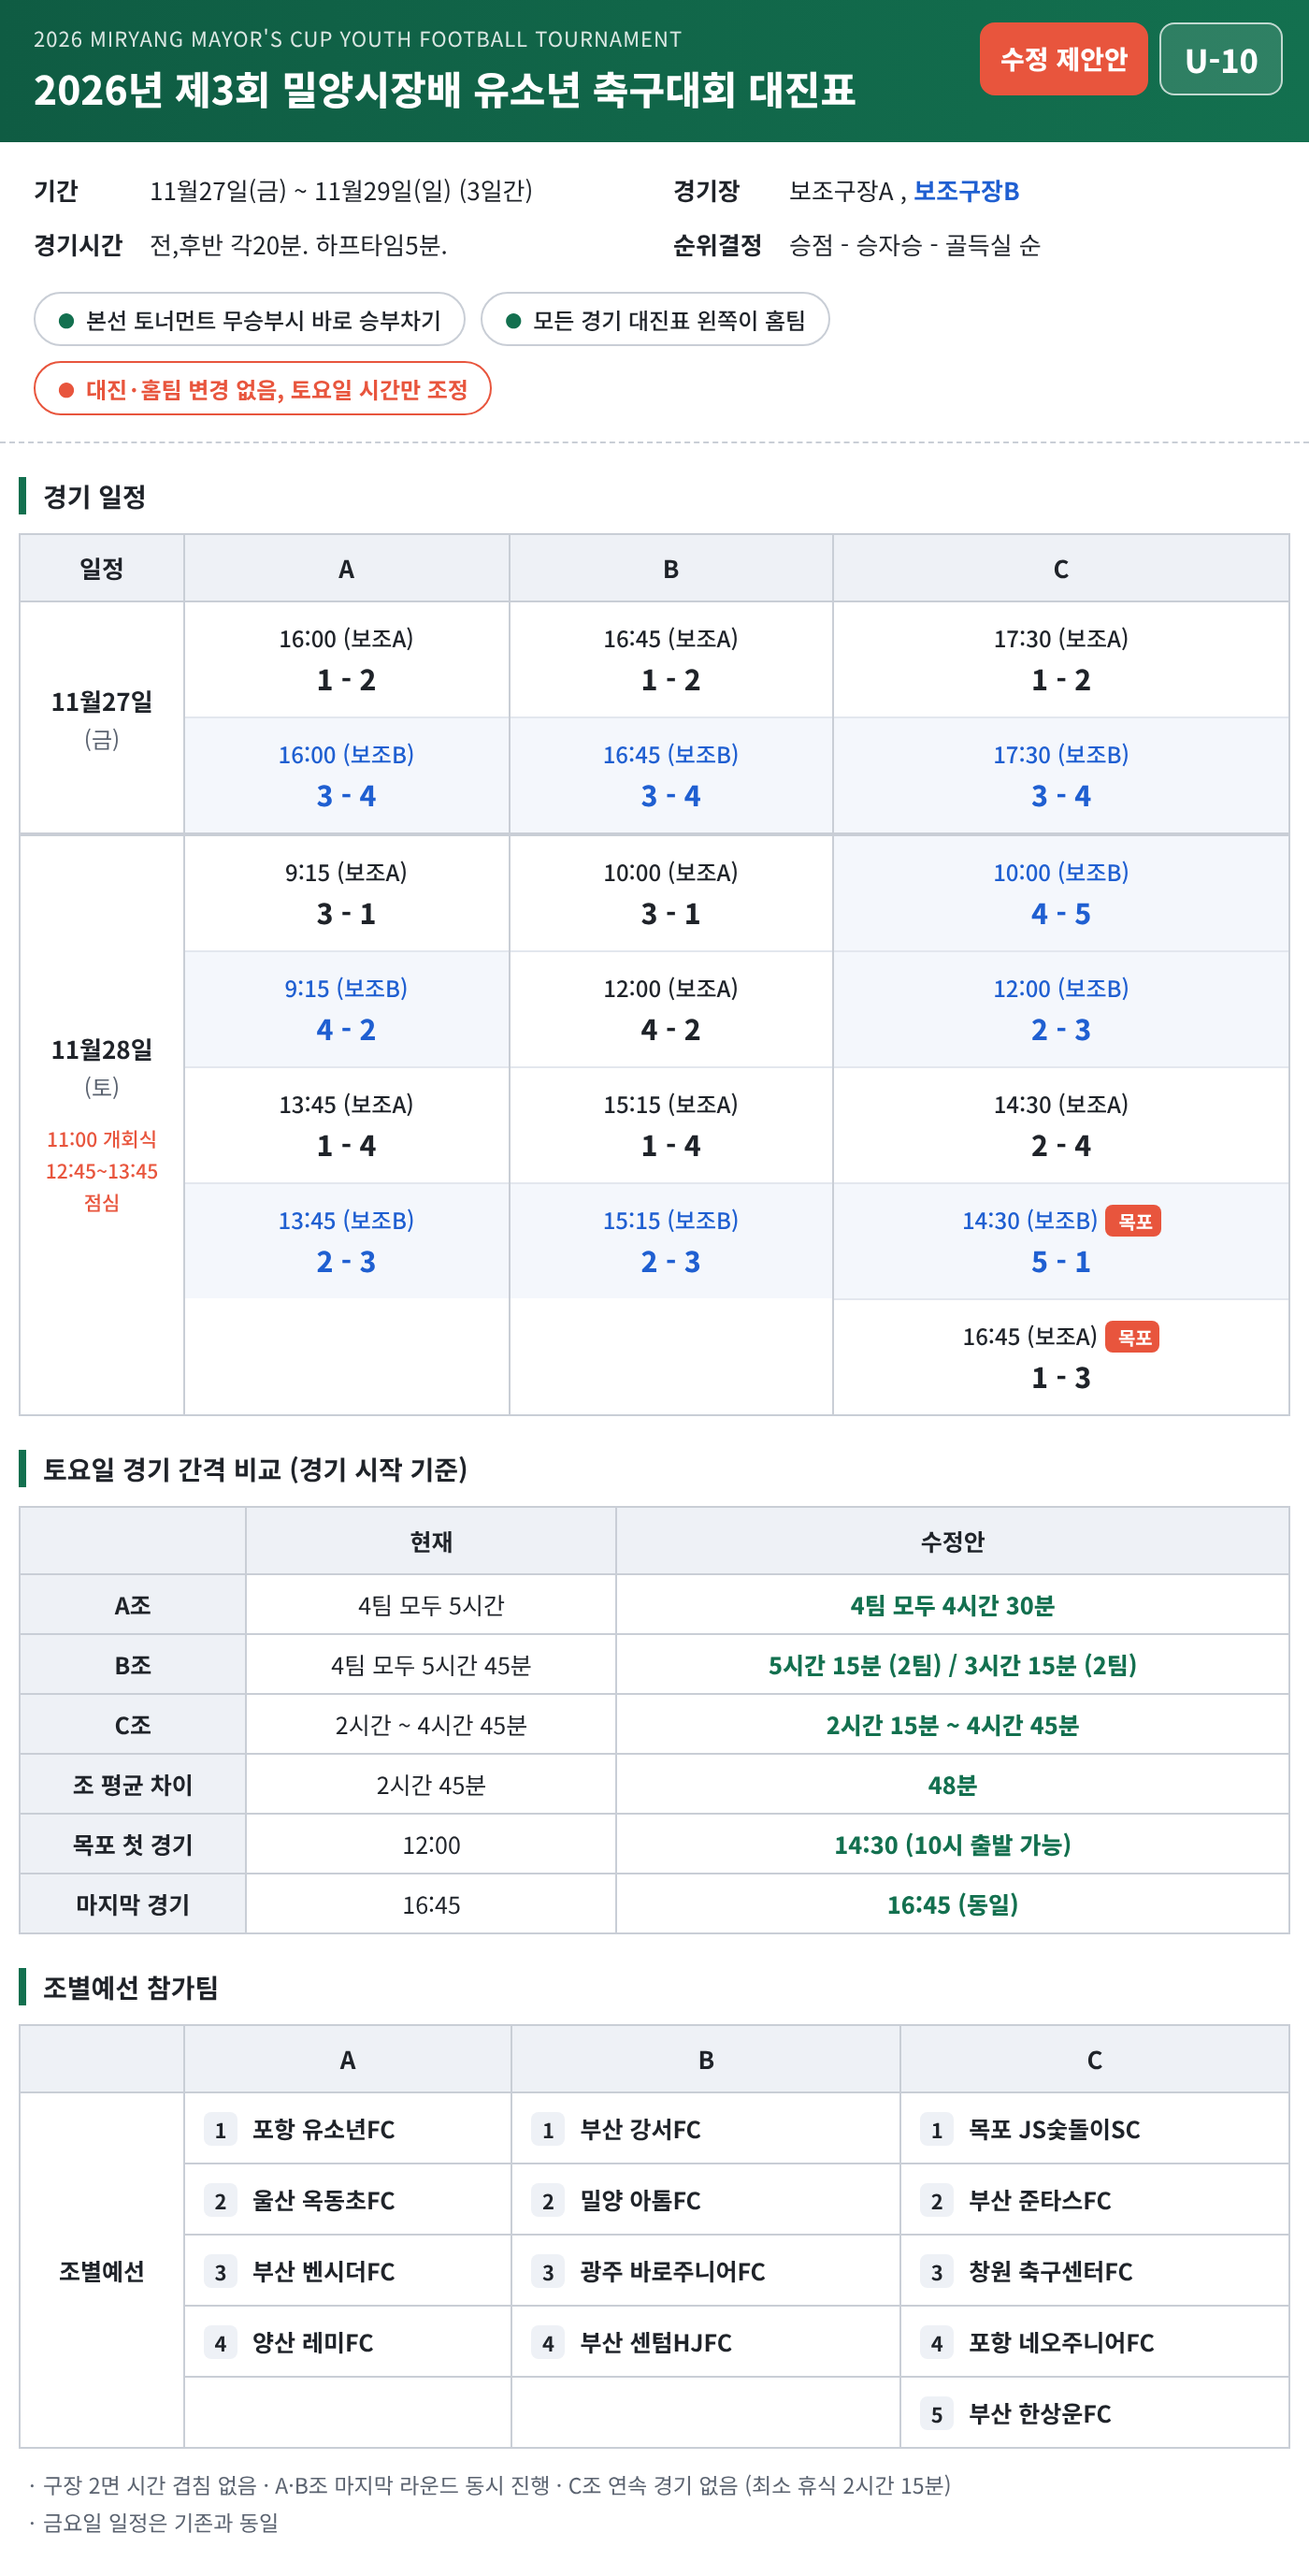
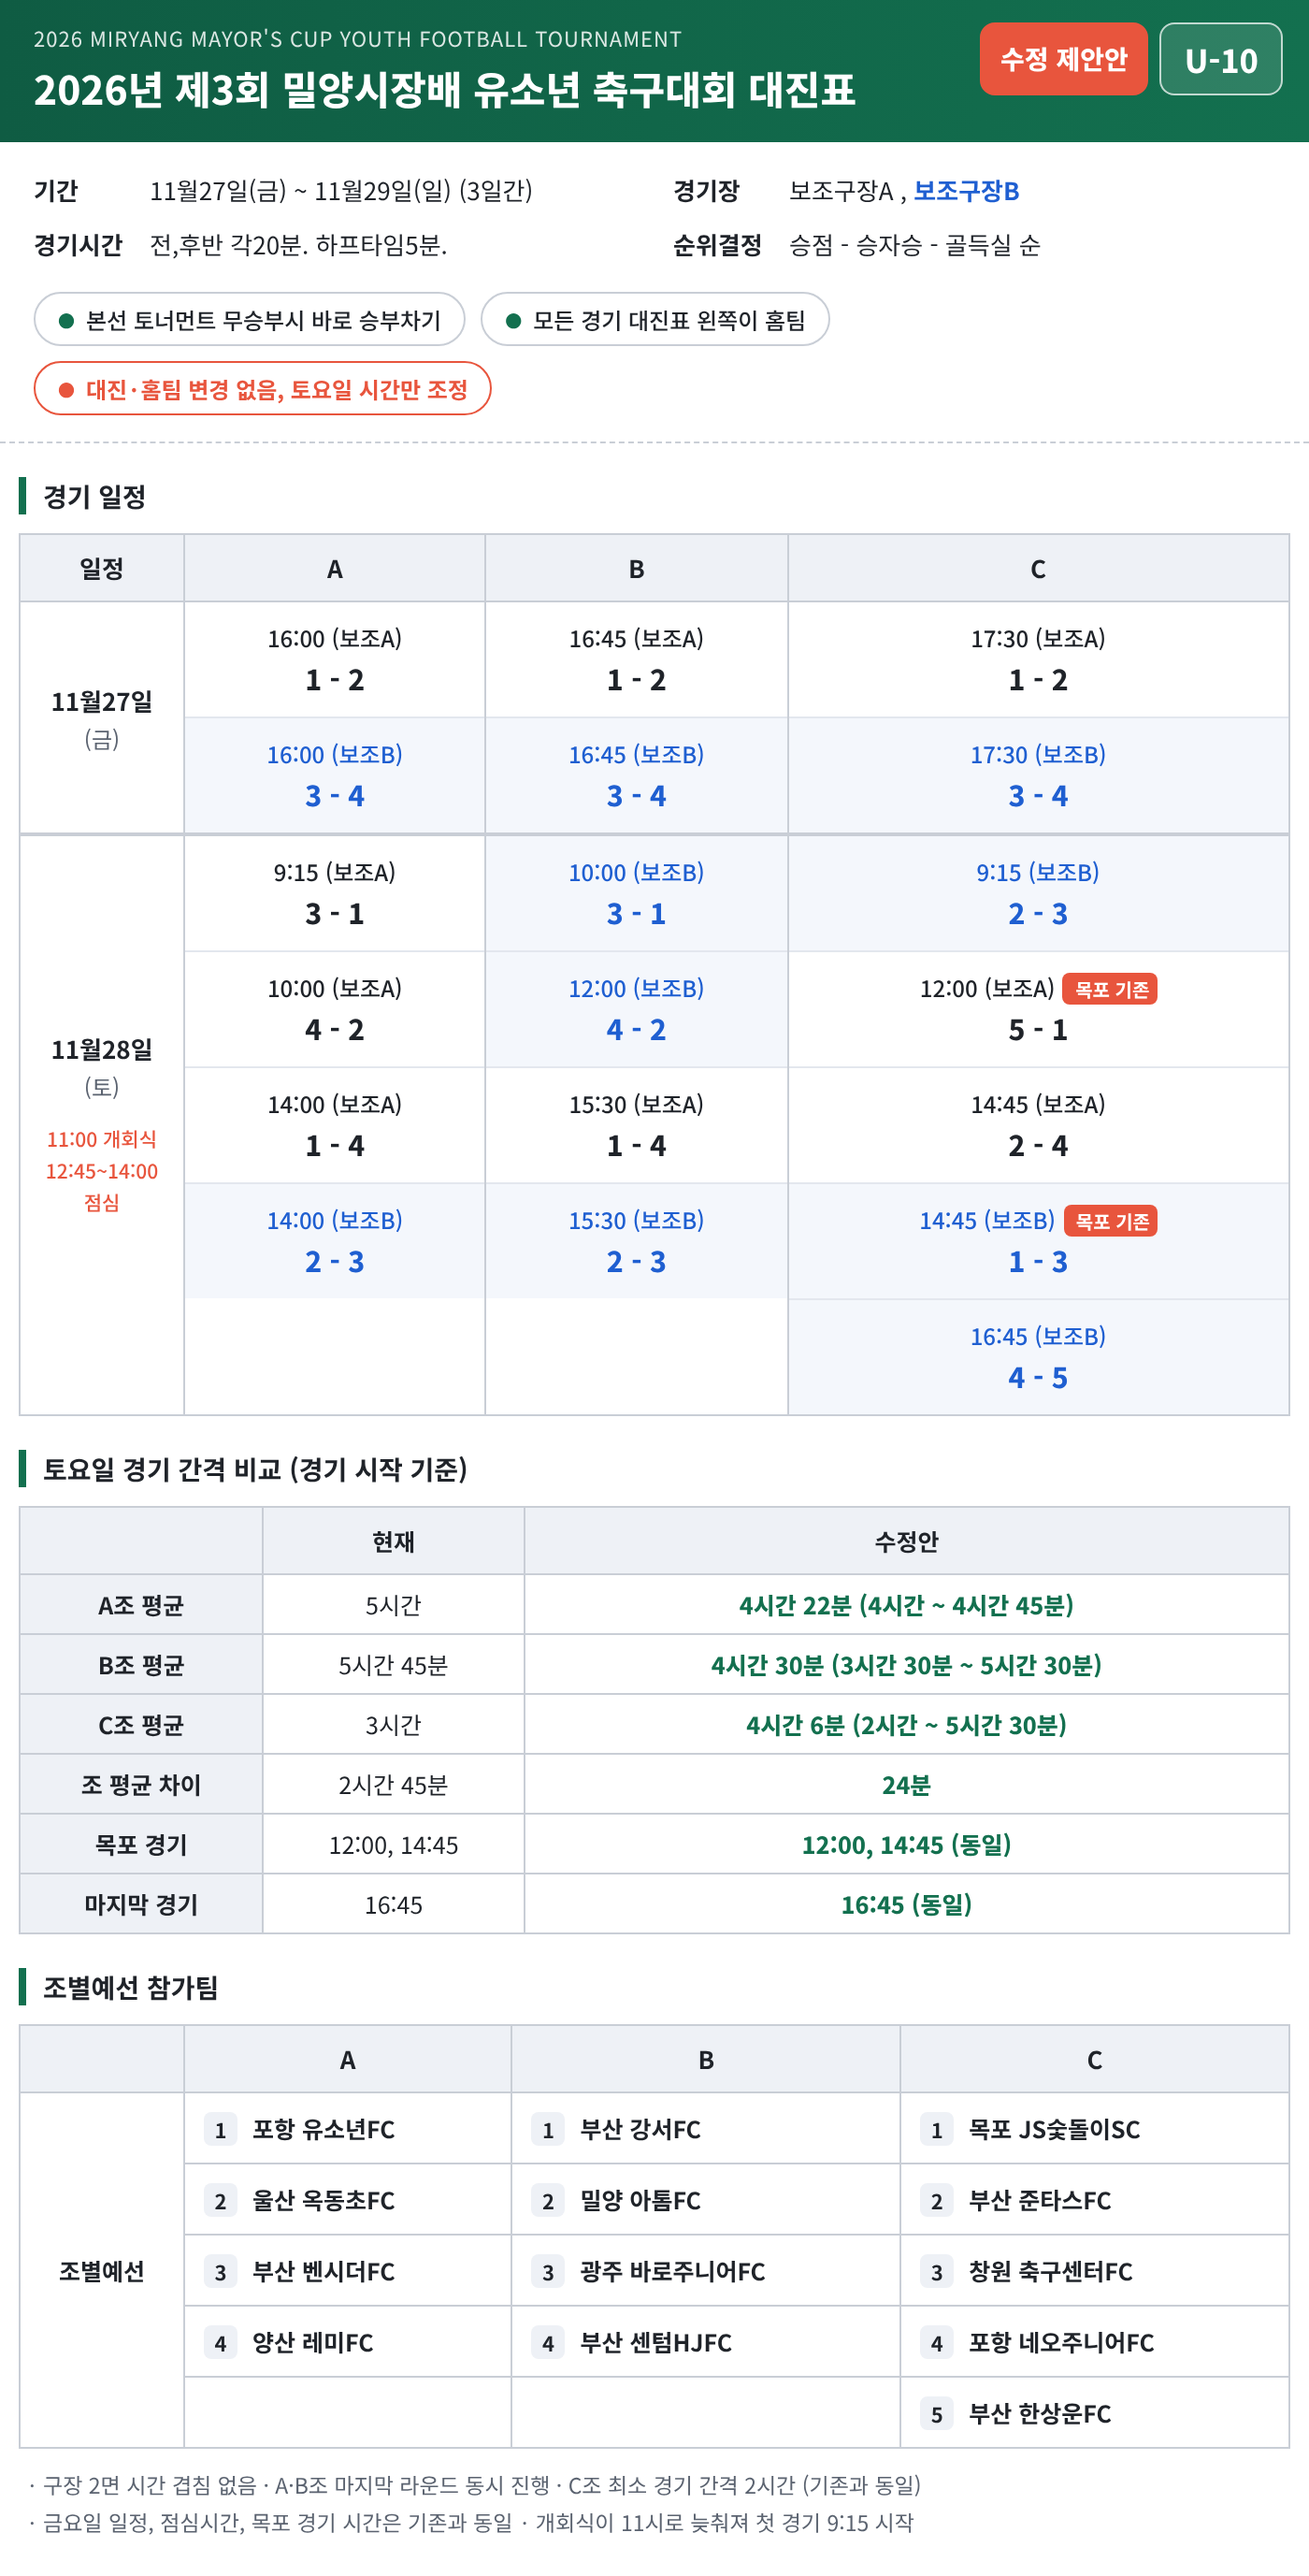
Keep Mokpo's original match times in proposed schedule
Claude-Session: https://claude.ai/code/session_01PvWX4VaDScZmFjzGSQV6oC

diff --git a/schedule/schedule.html b/schedule/schedule.html
@@ -39,7 +39,7 @@
   .g .tm{font-size:12px;font-weight:500}
   .g .sc{font-size:15px;font-weight:800;margin-top:3px}
   .g.b{background:var(--soft);color:var(--blue)}
-  .g.mk .tm:after{content:" 목포";font-size:10px;font-weight:700;color:#fff;background:var(--accent);border-radius:4px;padding:1px 4px;margin-left:4px}
+  .g.mk .tm:after{content:" 목포 기존";font-size:10px;font-weight:700;color:#fff;background:var(--accent);border-radius:4px;padding:1px 4px;margin-left:4px}
   .sep{border-top:2px solid var(--line)}
   .teams td{height:38px;padding:0 10px;font-weight:700;font-size:12.5px}
   .teams td.lbl{text-align:center;width:88px}
@@ -93,25 +93,25 @@
       </tr>
       <tr class="sep">
         <td class="date">11월28일<small>(토)</small>
-          <span class="ev">11:00 개회식<br>12:45~13:45<br>점심</span></td>
+          <span class="ev">11:00 개회식<br>12:45~14:00<br>점심</span></td>
         <td class="col"><div class="stack">
           <div class="g"><div class="tm">9:15 (보조A)</div><div class="sc">3 - 1</div></div>
-          <div class="g b"><div class="tm">9:15 (보조B)</div><div class="sc">4 - 2</div></div>
-          <div class="g"><div class="tm">13:45 (보조A)</div><div class="sc">1 - 4</div></div>
-          <div class="g b"><div class="tm">13:45 (보조B)</div><div class="sc">2 - 3</div></div>
+          <div class="g"><div class="tm">10:00 (보조A)</div><div class="sc">4 - 2</div></div>
+          <div class="g"><div class="tm">14:00 (보조A)</div><div class="sc">1 - 4</div></div>
+          <div class="g b"><div class="tm">14:00 (보조B)</div><div class="sc">2 - 3</div></div>
         </div></td>
         <td class="col"><div class="stack">
-          <div class="g"><div class="tm">10:00 (보조A)</div><div class="sc">3 - 1</div></div>
-          <div class="g"><div class="tm">12:00 (보조A)</div><div class="sc">4 - 2</div></div>
-          <div class="g"><div class="tm">15:15 (보조A)</div><div class="sc">1 - 4</div></div>
-          <div class="g b"><div class="tm">15:15 (보조B)</div><div class="sc">2 - 3</div></div>
+          <div class="g b"><div class="tm">10:00 (보조B)</div><div class="sc">3 - 1</div></div>
+          <div class="g b"><div class="tm">12:00 (보조B)</div><div class="sc">4 - 2</div></div>
+          <div class="g"><div class="tm">15:30 (보조A)</div><div class="sc">1 - 4</div></div>
+          <div class="g b"><div class="tm">15:30 (보조B)</div><div class="sc">2 - 3</div></div>
         </div></td>
         <td class="col"><div class="stack">
-          <div class="g b"><div class="tm">10:00 (보조B)</div><div class="sc">4 - 5</div></div>
-          <div class="g b"><div class="tm">12:00 (보조B)</div><div class="sc">2 - 3</div></div>
-          <div class="g"><div class="tm">14:30 (보조A)</div><div class="sc">2 - 4</div></div>
-          <div class="g b mk"><div class="tm">14:30 (보조B)</div><div class="sc">5 - 1</div></div>
-          <div class="g mk"><div class="tm">16:45 (보조A)</div><div class="sc">1 - 3</div></div>
+          <div class="g b"><div class="tm">9:15 (보조B)</div><div class="sc">2 - 3</div></div>
+          <div class="g mk"><div class="tm">12:00 (보조A)</div><div class="sc">5 - 1</div></div>
+          <div class="g"><div class="tm">14:45 (보조A)</div><div class="sc">2 - 4</div></div>
+          <div class="g b mk"><div class="tm">14:45 (보조B)</div><div class="sc">1 - 3</div></div>
+          <div class="g b"><div class="tm">16:45 (보조B)</div><div class="sc">4 - 5</div></div>
         </div></td>
       </tr>
     </tbody>
@@ -121,11 +121,11 @@
   <table class="cmp">
     <thead><tr><th></th><th>현재</th><th>수정안</th></tr></thead>
     <tbody>
-      <tr><td class="k">A조</td><td>4팀 모두 5시간</td><td class="new">4팀 모두 4시간 30분</td></tr>
-      <tr><td class="k">B조</td><td>4팀 모두 5시간 45분</td><td class="new">5시간 15분 (2팀) / 3시간 15분 (2팀)</td></tr>
-      <tr><td class="k">C조</td><td>2시간 ~ 4시간 45분</td><td class="new">2시간 15분 ~ 4시간 45분</td></tr>
-      <tr><td class="k">조 평균 차이</td><td>2시간 45분</td><td class="new">48분</td></tr>
-      <tr><td class="k">목포 첫 경기</td><td>12:00</td><td class="new">14:30 (10시 출발 가능)</td></tr>
+      <tr><td class="k">A조 평균</td><td>5시간</td><td class="new">4시간 22분 (4시간 ~ 4시간 45분)</td></tr>
+      <tr><td class="k">B조 평균</td><td>5시간 45분</td><td class="new">4시간 30분 (3시간 30분 ~ 5시간 30분)</td></tr>
+      <tr><td class="k">C조 평균</td><td>3시간</td><td class="new">4시간 6분 (2시간 ~ 5시간 30분)</td></tr>
+      <tr><td class="k">조 평균 차이</td><td>2시간 45분</td><td class="new">24분</td></tr>
+      <tr><td class="k">목포 경기</td><td>12:00, 14:45</td><td class="new">12:00, 14:45 (동일)</td></tr>
       <tr><td class="k">마지막 경기</td><td>16:45</td><td class="new">16:45 (동일)</td></tr>
     </tbody>
   </table>
@@ -143,8 +143,8 @@
     </tbody>
   </table>
   <div class="notes">
-    · 구장 2면 시간 겹침 없음 · A·B조 마지막 라운드 동시 진행 · C조 연속 경기 없음 (최소 휴식 2시간 15분)<br>
-    · 금요일 일정은 기존과 동일
+    · 구장 2면 시간 겹침 없음 · A·B조 마지막 라운드 동시 진행 · C조 최소 경기 간격 2시간 (기존과 동일)<br>
+    · 금요일 일정, 점심시간, 목포 경기 시간은 기존과 동일 · 개회식이 11시로 늦춰져 첫 경기 9:15 시작
   </div>
 </div>
 </body>
